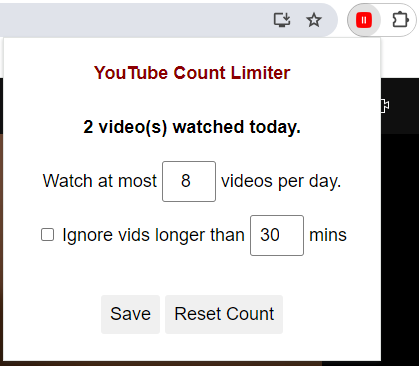
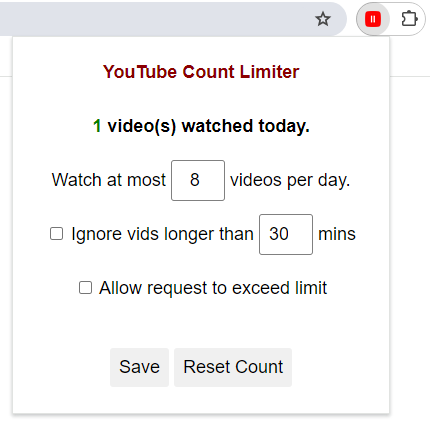
v0.3 changes.

diff --git a/Extension/settings_script.js b/Extension/settings_script.js
@@ -2,6 +2,7 @@ function clearCounter() {
     chrome.storage.local.set({ list: [] }, () => {
         const status = document.getElementById("status");
         document.getElementById("watch-count").innerText = 0;
+        fillInPopup();
         status.innerText = "Cleared!";
         setTimeout(() => {
             status.innerText = "";
@@ -9,9 +10,13 @@ function clearCounter() {
     });
 }
 
-function saveLimit(limit_, bypassThreshold_) {
+function saveLimit(limit_, bypassThreshold_, allowBypass_) {
     chrome.storage.local.set(
-        { limit: limit_, bypassMinuteThreshold: bypassThreshold_ },
+        {
+            limit: limit_,
+            bypassMinuteThreshold: bypassThreshold_,
+            allowBypass: allowBypass_,
+        },
         () => {
             const status = document.getElementById("status");
             status.innerText = "Saved!";
@@ -24,19 +29,28 @@ function saveLimit(limit_, bypassThreshold_) {
 
 const fillInPopup = () => {
     chrome.storage.local.get(
-        { list: [], limit: 8, bypassMinuteThreshold: 62 },
+        { list: [], limit: 8, bypassMinuteThreshold: 100, allowBypass: false },
         (result) => {
+            // How many videos watched
             document.getElementById("watch-count").innerText =
                 result.list.length;
+
+            document.getElementById("watch-count").style.color =
+                result.list.length > result.limit ? "red" : "green";
+
+            // Video limit
             document.getElementById("new-limit").value = result.limit;
-            if (result.bypassMinuteThreshold > 60) {
-                document.getElementById("bypass-check").checked = false;
-                document.getElementById("bypass-threshold").value = 30;
-            } else {
-                document.getElementById("bypass-check").checked = true;
-                document.getElementById("bypass-threshold").value =
-                    result.bypassMinuteThreshold;
-            }
+
+            // Whether allow "ignore videos longer than" and threshold
+            const lengthBypassChecked = result.bypassMinuteThreshold <= 99;
+            document.getElementById("length-bypass-check").checked =
+                lengthBypassChecked;
+            document.getElementById("bypass-threshold").value =
+                lengthBypassChecked ? result.bypassMinuteThreshold : 30;
+
+            // Whether allow "Just one more" button
+            document.getElementById("allow-bypass-check").checked =
+                result.allowBypass;
         }
     );
 };
@@ -45,9 +59,10 @@ document.addEventListener("DOMContentLoaded", fillInPopup);
 document.getElementById("save-limit").onclick = () => {
     saveLimit(
         document.getElementById("new-limit").value,
-        document.getElementById("bypass-check").checked
+        document.getElementById("length-bypass-check").checked
             ? document.getElementById("bypass-threshold").value
-            : 100
+            : 100,
+        document.getElementById("allow-bypass-check").checked
     );
 };
 document.getElementById("clear-watch-count").onclick = () => {

diff --git a/Extension/contentScript.js b/Extension/contentScript.js
@@ -38,16 +38,7 @@ const newPageLoad = () => {
         },
         (config) => {
             // debug line
-            console.log(
-                config.date,
-                config.list,
-                config.limit,
-                config.bypassMinuteThreshold,
-                config.bypass,
-                getVideoMinuteLength() <= config.bypassMinuteThreshold
-                    ? "shorter"
-                    : "longer"
-            );
+            console.log(config);
             if (config.date !== today) {
                 chrome.storage.local.set({
                     list: [],
@@ -79,9 +70,6 @@ const newPageLoad = () => {
     );
 };
 
-if (document.readyState !== "loading") {
-    newPageLoad();
-} else {
-    document.addEventListener("DOMContentLoaded", newPageLoad);
-}
-document.addEventListener("yt-navigate-start", newPageLoad);
+document.addEventListener("DOMContentLoaded", newPageLoad)
+document.addEventListener("yt-navigate-start", newPageLoad)
+// document.addEventListener("yt-page-data-fetched", newPageLoad);

diff --git a/Extension/index.html b/Extension/index.html
@@ -13,7 +13,7 @@
             height: fit-content;
             width: 20rem;
             display: grid;
-            grid-template-rows: 3rem 3rem 3rem 3rem 4rem 1rem;
+            grid-template-rows: 3rem 3rem 3rem 3rem 3rem 4rem 1rem;
             align-items: center;
         }
 
@@ -79,10 +79,14 @@
         videos per day.
     </div>
     <div>
-        <input type="checkbox" id="bypass-check">
+        <input type="checkbox" id="length-bypass-check">
         Ignore vids longer than
         <input type="number" id="bypass-threshold" min="1" max="99">
         mins
+    </div>
+    <div>
+        <input type="checkbox" id="allow-bypass-check">
+        Allow request to exceed limit
     </div>
     <div id="buttons">
         <input type="button" id="save-limit" value="Save">

diff --git a/Extension/banner_script.js b/Extension/banner_script.js
@@ -3,9 +3,20 @@ document.getElementById("bypass").onclick = () => {
     chrome.storage.local.get({ list: [] }, (items) => {
         chrome.storage.local.set({ bypass: true });
     });
-    history.back()
+    history.back();
 };
 
 chrome.storage.local.get({ limit: 8 }, (items) => {
     document.getElementById("banner-limit").innerText = items.limit;
+});
+
+document.addEventListener("DOMContentLoaded", () => {
+    chrome.storage.local.get(
+        {
+            allowBypass: false,
+        },
+        (items) => {
+            document.getElementById("bypass").hidden = !items.allowBypass;
+        }
+    );
 });

diff --git a/Extension/banner.html b/Extension/banner.html
@@ -12,6 +12,9 @@
             align-content: center;
             height: 98vh;
         }
+        h1{
+            padding-top: 1rem;
+        }
         #bypass {
             width: fit-content;
             margin: auto;
@@ -27,7 +30,7 @@
             box-shadow: 1px 1px 5px gray;
         }
         img {
-            margin:     auto;
+            margin: auto;
         }
     </style>
 </head>

diff --git a/readme.md b/readme.md
@@ -1,10 +1,3 @@
-### Changelogs
-v0.2 (June 2024) - implemented ignoring long videos and bypass; new UI
-
-
-v0.1 (May 2024) - initial prototype with limit and reset count
-<hr>
-
 # YouTube Daily Count Limiter
 
 This is a simple chrome extension that limits the number of videos you watch per day to avoid addiction.
@@ -19,8 +12,8 @@ This is a simple chrome extension that limits the number of videos you watch per
 2. A popup menu that lets you set the daily limit and a button to reset the counter for today
 3. Number of watched videos will be cleared everyday
 4. Watching a video more than once will not count towards the quota
-5. When the limit is reached, a button appears and can be clicked to bypass current limit
-6. Set a video length threshold with videos longer than which will be ignored (for background music) 
+5. When the limit is reached, a button appears and can be clicked to bypass current limit (disabled by default; configure in settings)
+6. Set a video length threshold with videos longer than which will be ignored* (requires adblocker; see Known Issues)
 
 ### Why not just limit usage using screentime?
 Not all videos are made equal; If you limit YouTube usage by time, then for the same amount of time you may watch a ton of short videos, or a few longer videos. I believe the latter is less detrimental to one's attention span. In fact, one could argue certain long educational videos (such as online tutorials, topical video essays) should not be considered entertainment at all and should not be restricted to the same level as "top 10 funny cat" videos.
@@ -32,9 +25,27 @@ In a way, while screentime can reduce eyestrain but limiting actual time spent l
 ### Installation
 Enable developer mode (upper right corner) under `chrome://extensions` and then drag the Extension folder into chrome window. This will load the unpacked extension.
 
+![installation](./Screenshots/install.gif)
+
+
+
 ### Todos:
 - [ ] Setting to ignore music videos (background listening)
 - [x] Setting to ignore videos shorter or longer than threshold
 - [x] A "please" button to bypass the limit
+- [ ] Refactor code
 
-Feel free to suggest more features and find bugs!
+### Changelogs
+v0.3 (19 June 2024) - setting to toggle for "one more" button
+
+v0.2 (11 June 2024) - implemented ignoring long videos and bypass; new UI
+
+v0.1 (24 May 2024) - initial prototype with limit and reset count
+
+### Known Issues
+* Video length threshold will not work correctly without adblocker (extension will wrongly look at length of the ad instead of the video). It can be fixed with using YouTube's API but its usage is limited
+* Youtube video tabs loaded in the background (e.g., after restarting chrome) will be counted towards quota even though user have not watched them
+
+<hr>
+
+Feel free to suggest more features and report bugs! ~Kenny
